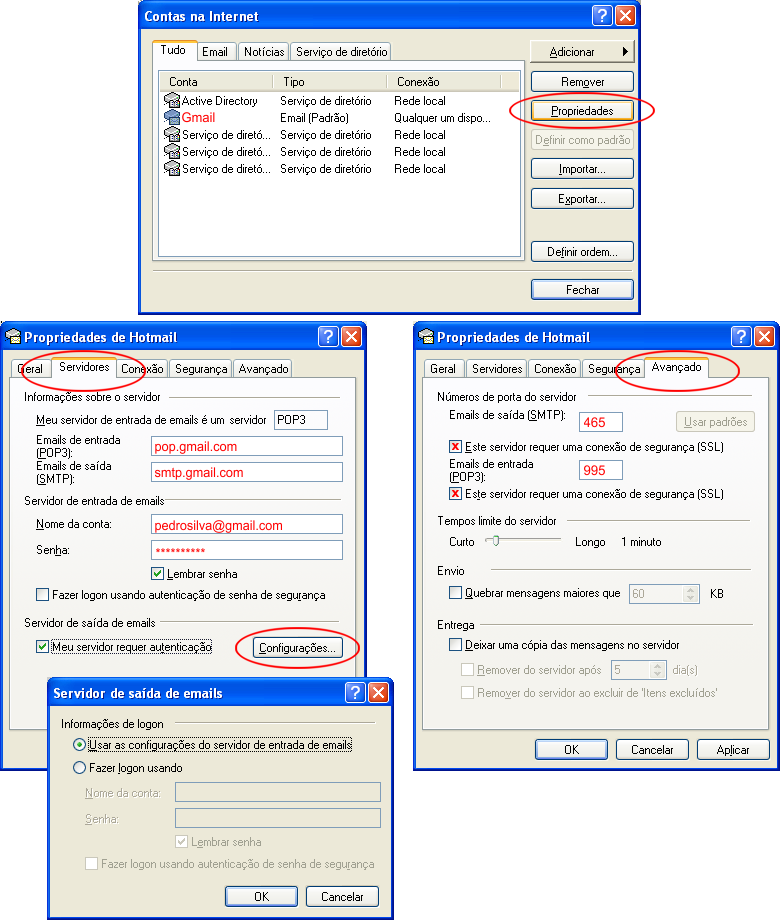
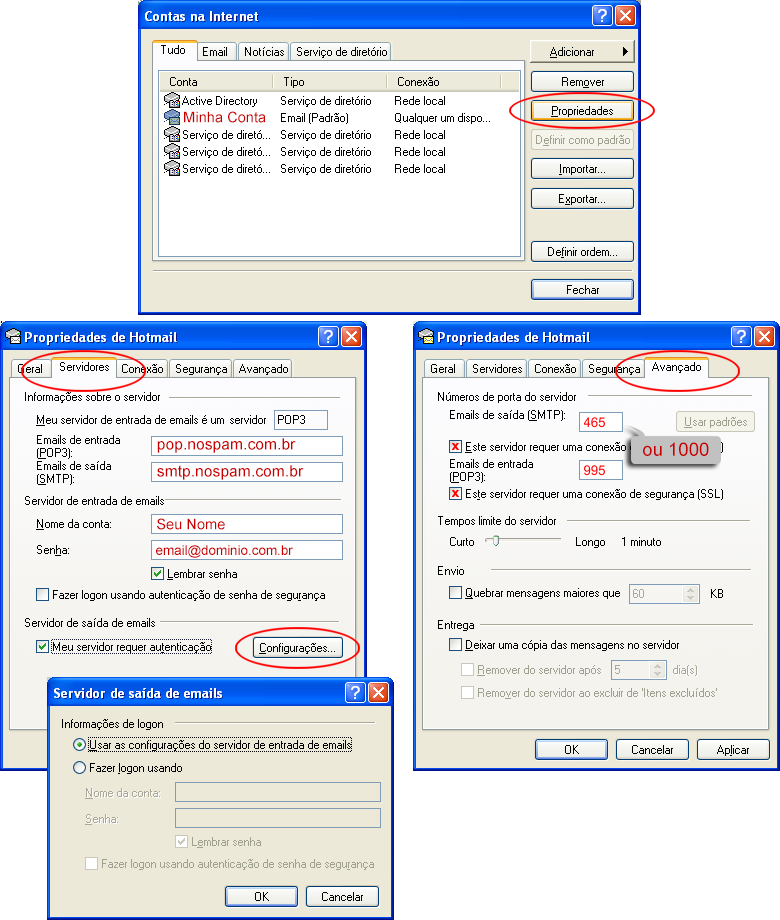
Atualizacao de imagens

diff --git a/index.php b/index.php
@@ -77,7 +77,7 @@
                     <li><a href="#outlook2007">Outlook 2007</a></li>
                     <li><a href="#outlook2010">Outlook 2010</a></li>
                     <li><a href="#outlook2013">Outlook 2013</a></li>
-                    <li><a href="#thunderbird">Mozilla Thunderbird</a></li>
+                    <!--<li><a href="#thunderbird">Mozilla Thunderbird</a></li>-->
                 </ul>
             </div>
         </div>
@@ -349,7 +349,7 @@
 
          <p>Clique em Ok e terminou.</p>
     </div>
-    <div class="box">
+    <!--<div class="box">
         <h1 id="thunderbird">Mozilla Thunderbird</h1>
         <p>
             Se é a primeira vez que abre o Thunderbird desde a sua instalação, irá surgir de imediato a janela para configurar uma conta de correio electrónico. Se não é a primeira vez que abre o Thunderbird desde a sua instalação, clique em Arquivo, Novo e de seguida, Conta de Email como na imagem seguinte:
@@ -370,7 +370,7 @@
             As configurações deverão de ser as seguintes:
         </p>
         <p class="image"><img src="imagens/thunderbird%20x2%20gmail%20.png"/></p>
-    </div>
+    </div>-->
 </div>
 </body>
 </html>
